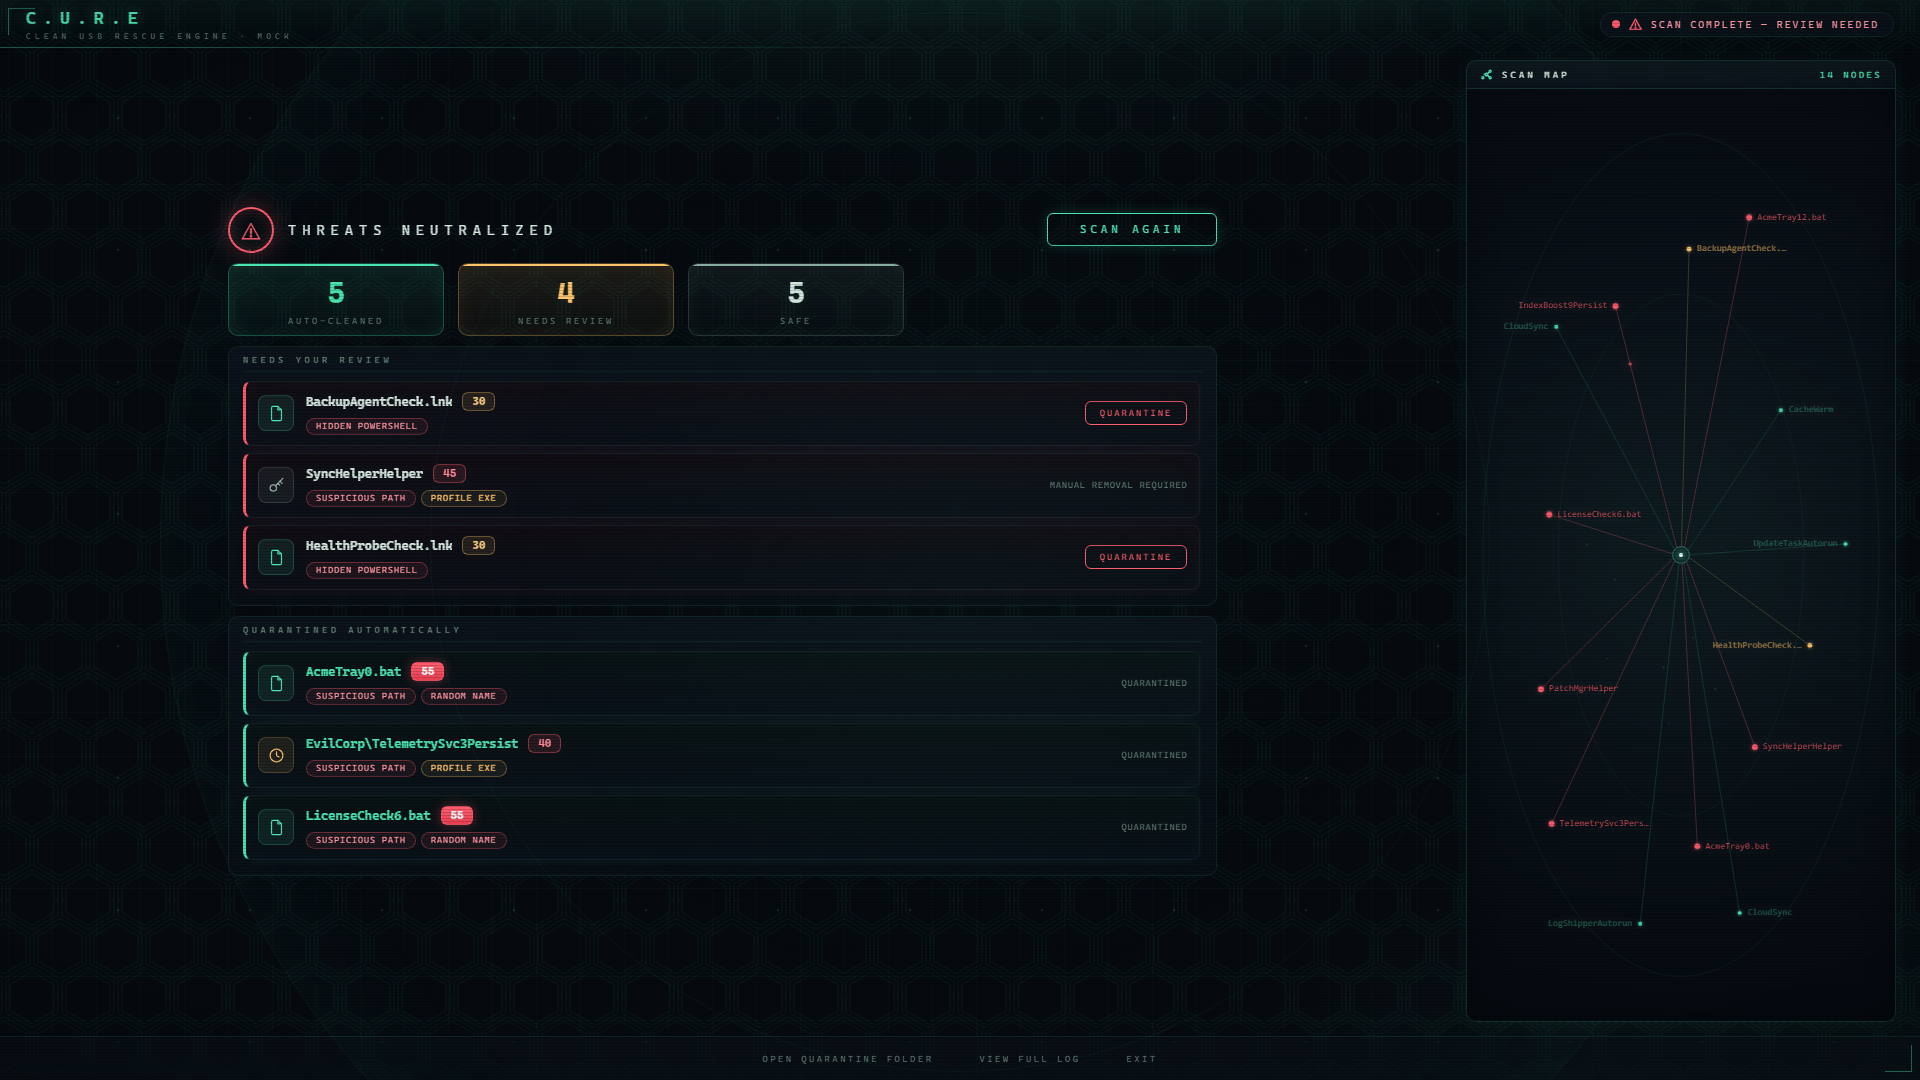
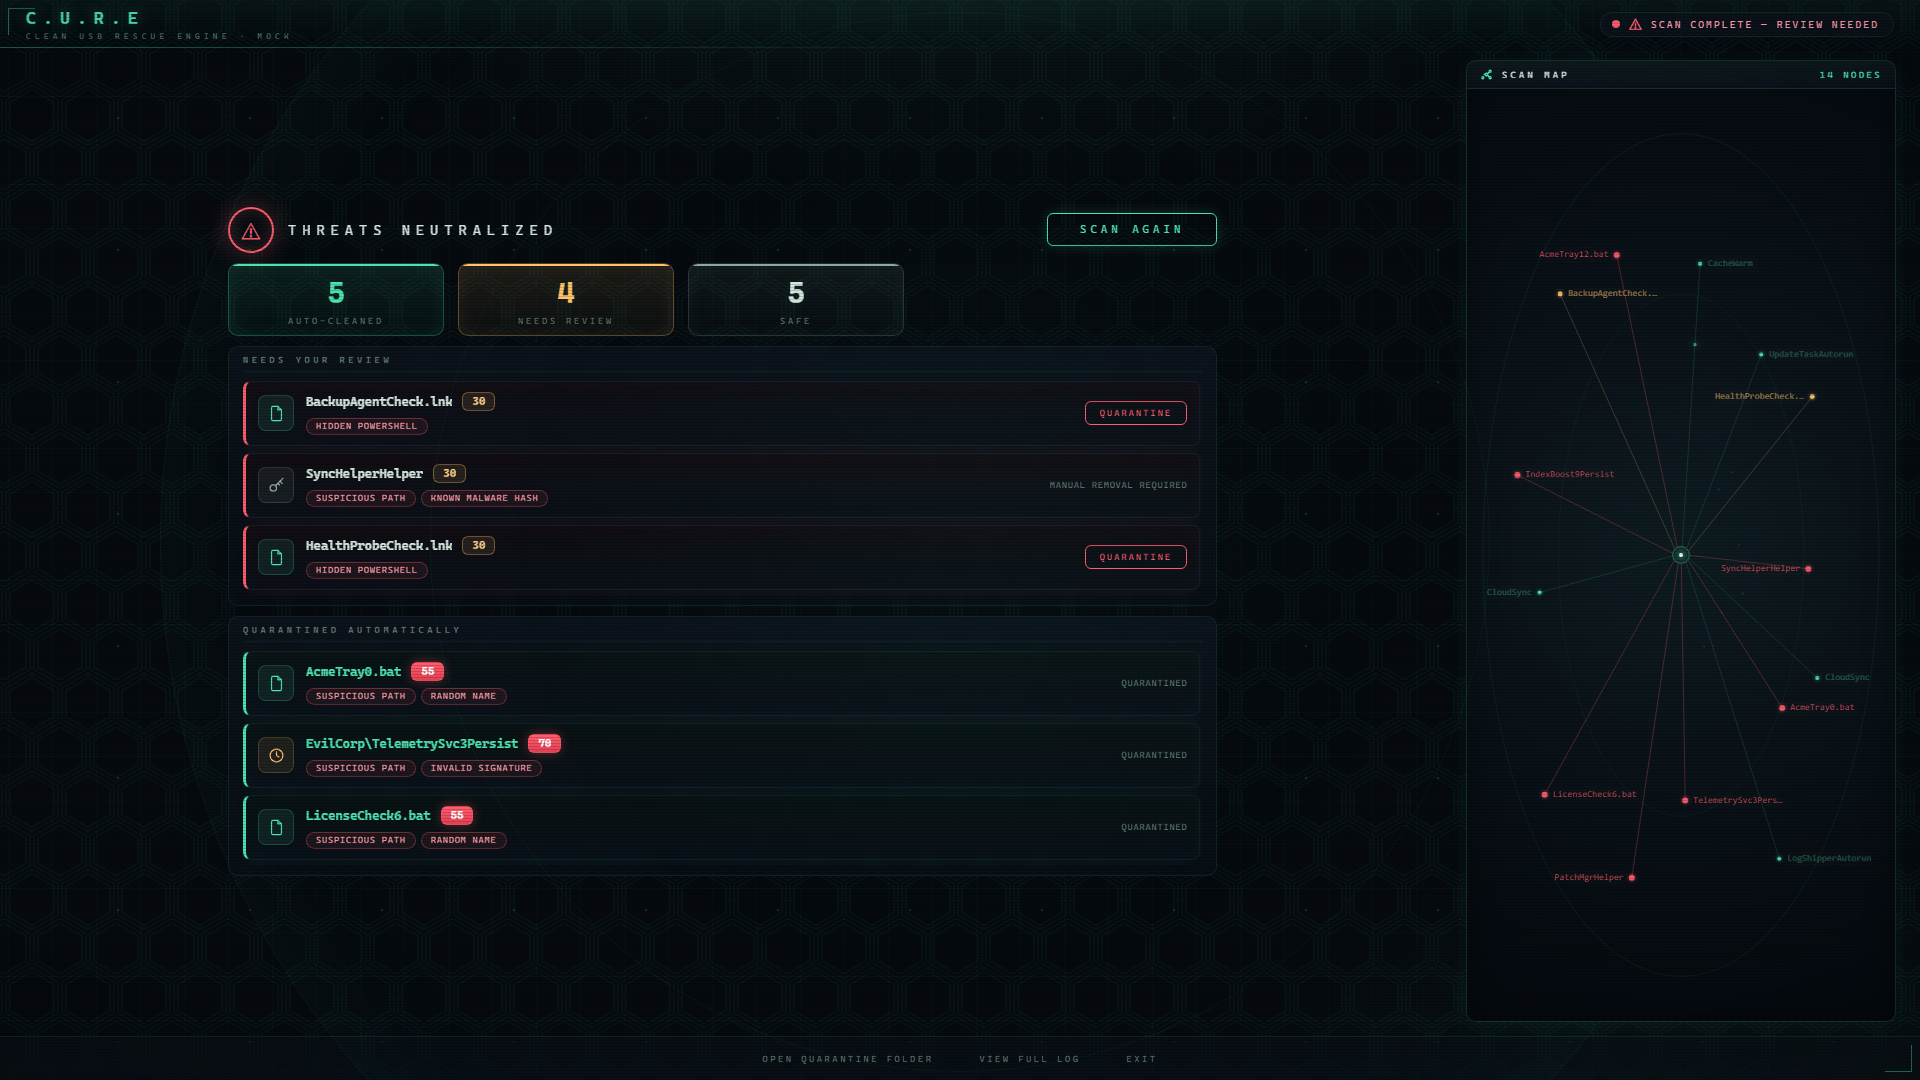
Polish: compact reason chips for engine v2 signals + chipcheck harness

diff --git a/gui/dist/mock-tauri.js b/gui/dist/mock-tauri.js
@@ -107,10 +107,10 @@
             command: "C:\\Users\\Public\\Downloads\\" + base.toLowerCase() + "_cli.exe --silent",
             location: "C:\\Windows\\System32\\Tasks\\EvilCorp\\" + base + "Persist.xml",
             risk: "HighRisk",
-            score: 40,
+            score: 70,
             reasons: [
               "+30 command path sits in a temp/downloads/public drop zone",
-              "+10 executable runs directly from a user profile folder",
+              "+40 Invalid Signature",
             ],
           };
           break;
@@ -132,10 +132,10 @@
             command: "\"C:\\Users\\bob\\AppData\\Local\\Temp\\" + base.toLowerCase() + ".exe\" /bg",
             location: "HKLM\\Software\\Microsoft\\Windows\\CurrentVersion\\Run",
             risk: "HighRisk",
-            score: 45,
+            score: 30,
             reasons: [
               "+30 command path sits in a temp/downloads/public drop zone",
-              "+10 executable runs directly from a user profile folder",
+              "Known Malware Hash",
             ],
           };
       }

diff --git a/gui/dist/app.js b/gui/dist/app.js
@@ -813,6 +813,12 @@
     if (lower.includes("powershell")) return ["Hidden PowerShell", "red"];
     if (lower.includes("trusted install")) return ["Trusted location", "teal"];
     if (lower.includes("user profile folder")) return ["Profile exe", "amber"];
+    // Detection Engine v2 — note: "invalid signature" contains "valid
+    // signature", so it must be matched first.
+    if (lower.includes("invalid signature")) return ["Invalid Signature", "red"];
+    if (lower.includes("valid signature")) return ["Valid Signature", "teal"];
+    if (lower.includes("known malware hash")) return ["Known Malware Hash", "red"];
+    if (lower.includes("unsigned binary")) return ["Unsigned Binary", "amber"];
     const stripped = reason.replace(/^[+-]\d+\s*/, "");
     return [stripped.split(/\s+/).slice(0, 3).join(" "), ""];
   }

diff --git a/core/src/risk.rs b/core/src/risk.rs
@@ -132,23 +132,20 @@ pub fn score_with_signals(
 
     // --- Detection Engine v2: binary reputation signals ---
     // Applied after heuristics so the unsigned penalty can see whether
-    // other warning signs are already on the board.
+    // other warning signs are already on the board. Reason strings double
+    // as GUI chip tags — keep them short (see app.js reasonChipLabel).
     match signature {
         SignatureStatus::ValidSigned => {
-            reasons.push(format!(
-                "-{SIGNED_DISCOUNT} Digitally signed with a valid Authenticode signature"
-            ));
+            reasons.push(format!("-{SIGNED_DISCOUNT} Valid Signature"));
             score -= SIGNED_DISCOUNT;
         }
         SignatureStatus::Invalid => {
-            reasons.push(format!(
-                "+{INVALID_SIGNATURE_PENALTY} Digital signature is present but invalid/tampered"
-            ));
+            reasons.push(format!("+{INVALID_SIGNATURE_PENALTY} Invalid Signature"));
             score += INVALID_SIGNATURE_PENALTY;
         }
         SignatureStatus::Unsigned if score > 0 => {
             reasons.push(format!(
-                "+{UNSIGNED_WITH_WARNINGS_PENALTY} executable is unsigned and other warning signs are present"
+                "+{UNSIGNED_WITH_WARNINGS_PENALTY} Unsigned Binary"
             ));
             score += UNSIGNED_WITH_WARNINGS_PENALTY;
         }
@@ -163,11 +160,11 @@ pub fn score_with_signals(
     };
     scored.risk = risk_level(scored.score);
 
-    if let Some(description) = hash_match {
+    if let Some(_description) = hash_match {
         // Hard IOC override: beats every heuristic, even a valid signature.
-        scored.reasons.push(format!(
-            "Matches known malicious hash: {description}"
-        ));
+        // The full malware description stays in the embedded IOC list
+        // (core/src/known_bad_hashes.json); the chip tag stays short.
+        scored.reasons.push("Known Malware Hash".to_string());
         scored.risk = RiskLevel::HighRisk;
     }
 
@@ -304,7 +301,7 @@ mod tests {
         assert!(unsigned
             .reasons
             .iter()
-            .any(|r| r.starts_with("+10 executable is unsigned")));
+            .any(|r| r.starts_with("+10 Unsigned Binary")));
     }
 
     #[test]
@@ -317,7 +314,10 @@ mod tests {
         );
         assert_eq!(scored.score, 0);
         assert_eq!(scored.risk, RiskLevel::Safe);
-        assert!(!scored.reasons.iter().any(|r| r.contains("unsigned")));
+        assert!(
+            scored.reasons.iter().all(|r| r.starts_with("-20")),
+            "only the trusted-location discount should be present"
+        );
     }
 
     #[test]
@@ -361,7 +361,7 @@ mod tests {
         assert!(scored
             .reasons
             .iter()
-            .any(|r| r.starts_with("Matches known malicious hash")));
+            .any(|r| r.starts_with("Known Malware Hash")));
     }
 
     #[test]
@@ -392,7 +392,7 @@ mod tests {
         assert!(scored
             .reasons
             .iter()
-            .any(|r| r.starts_with("-40 Digitally signed")));
+            .any(|r| r.starts_with("-40 Valid Signature")));
     }
 
     #[cfg(windows)]
@@ -419,11 +419,11 @@ mod tests {
         // degrades to Unsigned (+10 alongside the other warning signs).
         assert_eq!(scored.risk, RiskLevel::HighRisk);
         assert!(scored.reasons.iter().any(|r| r.starts_with("+40")
-            || r.starts_with("+10 executable is unsigned")));
+            || r.starts_with("+10 Unsigned Binary")));
         assert!(!scored
             .reasons
             .iter()
-            .any(|r| r.starts_with("-40 Digitally signed")));
+            .any(|r| r.starts_with("-40 Valid Signature")));
     }
 
     // ---- helpers (unchanged) ----
